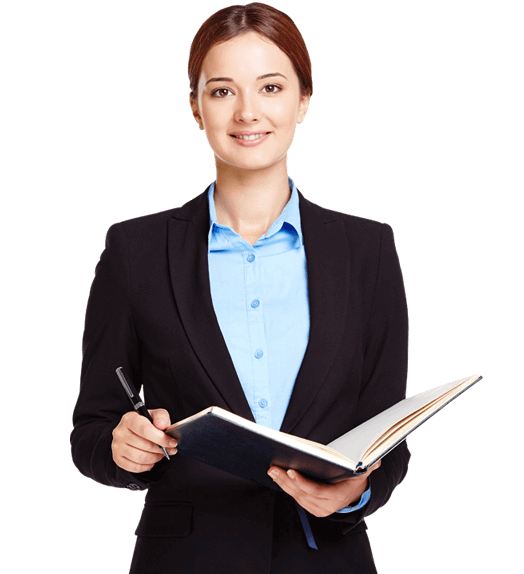
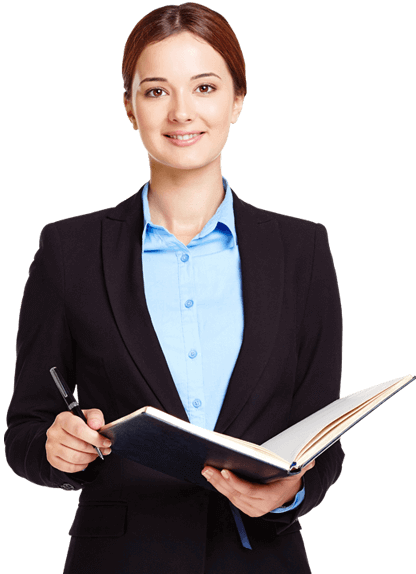
commit 6

diff --git a/src/Components/About.tsx b/src/Components/About.tsx
@@ -4,17 +4,21 @@ const About = () =>{
     return(
         <div>
             <Navbar/>
-            <div className='bg-purple-950 shadow-black h-100 sm:h-100 shadow-md md:h-120 lg:h-135 xl:h-105 relative'>
-                <img src='./src/assets/student.png' className="absolute h-[350px] sm:h-[400px] md:h-[430px] lg:h-[540px] xl:h-[400px] right-0 md:right-7 lg:right-10 bottom-0 rounded-md"></img>
-                <p className='text-white text-[14px] sm:text-[20px] md:text-xl lg:text-2xl xl:text-3xl italic font-bold font-opensans top-15 md:top-12 xl:top-15 left-3 sm:left-10 md:left-15 xl:left-40 absolute'>AscendEd - Where we make goals a reality.</p>
-                <p className='text-white text-[14px] sm:text-base md:text-[19px] xl:text-2xl italic font-normal font-opensans top-25 xl:top-28 left-5 sm:left-11 md:left-16 xl:left-40 w-55 sm:w-73 md:w-80 lg:w-90 xl:w-170 absolute'>At our core, we believe that every ambition—big or small—deserves the right support to come to life. We're a team of thinkers, builders, and doers dedicated to turning vision into progress through creativity, strategy, and action. Whether you're starting from scratch or scaling up, we're here to help you move with clarity, confidence, and purpose. Because to us, success isn't just a destination—it's a journey we take together.</p>               
+            <div className='bg-purple-950 shadow-black h-90 sm:h-100 shadow-md md:h-120 lg:h-135 xl:h-105 relative'>
+                <img src='./src/assets/student.png' className="absolute h-[calc(25vw+25vh)] max-h-[23rem] sm:h-[calc(28vw+28vh)] sm:min-h-[20rem] sm:max-h-[25rem] md:h-[calc(35vw+35vh)] md:max-h-[29rem] lg:h-[540px] xl:h-[400px] right-0 md:right-7 lg:right-10 bottom-0 rounded-md"></img>
+                <p className='text-white text-sm w-[calc(20vw+20vh)] sm:w-[calc(40vw+40vh)] sm:text-xl md:text-xl lg:text-2xl xl:text-3xl italic font-bold font-opensans top-8 sm:top-20 md:top-12 lg:top-25 xl:top-15 left-3 sm:left-10 md:left-15 xl:left-40 absolute'>AscendEd - Where we make goals a reality.</p>
+                <p className='text-white text-[14px] sm:text-base md:text-[19px] xl:text-2xl italic font-normal font-opensans top-20 sm:top-30 lg:top-39 xl:top-28 left-5 sm:left-11 md:left-16 xl:left-40 w-[calc(12vw+12vh)] sm:w-73 md:w-80 lg:w-90 xl:w-170 absolute'>Every ambition deserves the right support. We’re a team of creatives and strategists turning vision into progress. From first steps to scaling up, we move with purpose—together.</p>               
             </div>
             <div className="bg-purple-900 w-full h-100 lg:h-120 shadow-black shadow-2xl relative">
-                <img src="./src/assets/instruct.png" className="h-75 md:h-90 lg:h-100 xl:h-110 absolute top-10 sm:left-10 lg:left-20 xl:left-40"/>
-                <p className="absolute font-opensans italic text-base md:text-xl lg:text-2xl xl:text-3xl w-50 md:w-60 lg:w-80 xl:w-120 right-5 sm:right-15 lg:right-25 xl:right-40 top-20">Our <b>instructors</b> are more than just teachers — they're mentors dedicated to helping students succeed. With real-world experience and a passion for education, they bring clarity, support, and motivation to every step of the learning journey.</p>
+                <img src="./src/assets/instruct.png" className="h-75 md:h-90 lg:h-100 xl:h-110 absolute bottom-0 left-0 sm:left-10 lg:left-20 xl:left-40"/>
+                <p className="absolute font-opensans italic text-base md:text-xl lg:text-2xl xl:text-3xl w-[calc(15vw+15vh)] md:w-60 lg:w-80 xl:w-120 right-5 sm:right-15 lg:right-25 xl:right-40 top-10 lg:top-15 xl:top-20">Our <b>instructors</b> are more than just teachers — they're mentors dedicated to helping students succeed. With real-world experience and a passion for education, they bring clarity, support, and motivation to every step of the learning journey.</p>
             </div>
-            <div className="bg-purple-950 w-full h-120">
-
+            <div className="bg-purple-950 w-full h-120 text-center">
+                <div>
+                    <img src="./src/assets/plan.png" className="w-[calc(15vw+15vh)] mx-auto pt-10"></img>
+                    <p className="font-bold text-md pt-10">Easy and Affordable Plans</p>
+                    <p className="text-md p-5">Whether you’re just starting out or growing fast, our plans keep things affordable.</p>
+                </div>
             </div>
         </div>
     )

diff --git a/src/Components/Home.tsx b/src/Components/Home.tsx
@@ -5,19 +5,22 @@ const Home = ()=>{
     return (
         <div className='h-screen w-full'>
             <Navbar/>
-            <div className='bg-blue-700 h-80 xl:h-120 relative'>
-                <img src='./src/assets/Home.png' className="absolute sm:w-[300px] md:w-[350px] lg:w-[400px] xl:w-[500px] h-[180px] sm:h-[200px] md:h-[240px] xl:h-[350px] right-1 md:right-7 lg:right-20 top-13 md:top-10 object-cover rounded-md"></img>
-                <p className='text-white text-[14px] sm:text-base md:text-xl xl:text-3xl italic font-bold font-opensans top-15 md:top-12 xl:top-20 left-3 sm:left-10 md:left-15 xl:left-40 absolute'>Courses that help you grow</p>
-                <p className='text-white text-[14px] sm:text-base md:text-[19px] xl:text-2xl italic font-normal font-opensans top-25 xl:top-32 left-5 sm:left-11 md:left-16 xl:left-40 w-45 md:w-60 xl:w-100 absolute'>Unlock your potential -<br/>learn anytime, anywhere.<br/>Expert-led online courses designed to elevate your skills and your future.</p>               
+            <div className='bg-blue-700 text-center p-[calc(2vh+2vw)] lg:px-[calc(5vw+5vh)] lg pb-0 sm:flex sm:text-left'>
+                <div className='sm:w-[50vw] my-auto space-y-[2.5vh]'>
+                    <p className='text-white italic font-bold font-opensans sm:text-lg md:text-xl lg:text-2xl xl:text-3xl'>Courses that help you grow</p>
+                    <p className='text-white text-[14px] italic font-opensans sm:text-md md:text-lg lg:text-xl xl:text-2xl'>Unlock your potential -<br/>learn anytime, anywhere.<br/>Expert-led online courses designed to elevate your skills and your future.</p>               
+                </div>
+                <div className='w-full flex justify-end'>
+                    <img src='./src/assets/st-home.png' className="mx-auto sm:mx-0 sm:ml-auto h-auto w-[calc(20vw+30vh)] sm:w-[calc(20vw+15vh)] md:w-[calc(25vw+15vh)] lg:w-[calc(15vw+18vh)] pt-[4vh] object-cover overflow-scroll"></img>
+                </div>
             </div>
-            <p className='p-5 text-base xl:pl-8 sm:text-xl md:text-2xl lg:text-2xl xl:text-2xl font-opensans'>Future-Proof your skills with the perfect courses</p>
-            <div className='flex p-4 space-x-8 lg:space-x-15 xl:space-x-20 justify-center overflow-x-auto'>
+            <p className='p-5 pb-10 text-center sm:text-left text-base xl:pl-8 sm:text-xl md:text-2xl lg:text-2xl xl:text-2xl font-opensans'>Future-Proof your skills with the perfect courses</p>
+            <div className='md:flex p-4 space-y-[5vh] sm:space-x-8 lg:space-x-15 xl:space-x-20 justify-center overflow-x-auto'>
                 <Course_card imgSrc='./src/assets/AI.png' name='Artificial Intelligence' description='The best AI course for beginners.' rating={4.9}/>
                 <Course_card imgSrc='./src/assets/Py.png' name='Programming in Python' description='Learn Python from scratch.' rating={5}/>
-                <Course_card className='hidden sm:block' imgSrc='./src/assets/CY.jpg' name='Cybersecurity' description='Cyber-security made easy' rating={4.6}/>
-                <Course_card className='hidden lg:block' imgSrc='./src/assets/DS.png' name='Data Science' description='The perfect Data-Science Guide' rating={4.2}/>
+                <Course_card className='md:hidden lg:block'imgSrc='./src/assets/CY.jpg' name='Cybersecurity' description='Cyber-security made easy' rating={4.6}/>
             </div>
-            <p className='p-5 text-base xl:pl-8 sm:text-xl md:text-2xl lg:text-2xl xl:text-2xl font-opensans'>Don't take our word for it. See for yourself</p>
+            <p className='p-5 text-center sm:text-left text-base xl:pl-8 sm:text-xl md:text-2xl lg:text-2xl xl:text-2xl font-opensans'>Don't take our word for it. See for yourself</p>
             <div className='md:flex sm:justify-center place-items-center pt-4 pl-8'>
                 <Testimonial className='mt-10 md:mt-auto' imgSrc='./src/assets/customer.jpg' name='Arthur Morgan' description='The best AI course that I have taken.' rating={5}/>
                 <Testimonial className='mt-30 md:mt-auto' imgSrc='./src/assets/customer.jpg' name='Joel Miller' description='Truly the best experience.' rating={5}/>

diff --git a/src/Components/Navbar.tsx b/src/Components/Navbar.tsx
@@ -1,15 +1,19 @@
 import { Link } from "react-router-dom"
+import { Sidebar } from "./sidebar"
 
 const Navbar = () => {
     return(
-        <div className=" bg-black sm:h-5 md:h-10 lg:h-15 min-h-10 overflow-auto">
+        <div className=" bg-black sm:h-5 md:h-10 lg:h-15 pb-[1vh] sm:min-h-10 overflow-auto">
             <nav className="flex space-x-6 sm:pt-0.5 md:pt-1 lg:pt-1">
                 <Link to="/"><p className="logo pl-2">AscendED</p></Link>
-                <p className="text-white whitespace-nowrap lg:text-xl md:text-base sm:text-sm text-[12px] font-opensans pt-2 sm:pt-1.3 md:pt-1 lg:pt-3 lg:pl-64 md:pl-40 sm:pl-20 sm:pr-1 md:pr-7 lg:pr-10 italic">Boost your career</p>
-                <div className="justify-end flex ml-auto space-x-8 pr-2 sm:pl-5">
+                <p className="italic font-opensans pt-[1.5vh] mx-auto text-[0.8rem] sm:text-sm md:text-md lg:text-lg xl:text-xl sm:p-0 sm:m-auto">Boost your career</p>
+                <div className="hidden sm:flex justify-end ml-auto space-x-8 pr-2 sm:pl-5">
                     <Link to="/"><p className="navbarText">Explore Courses</p></Link>
                     <Link to="/about"><p className="navbarText">About AscendEd</p></Link>
                     <Link to="/"><p className="navbarText">Sign in</p></Link>
+                </div>
+                <div className="sm:hidden justify-end ml-auto pr-3">
+                    <Sidebar/>
                 </div>
             </nav>
         </div> 

diff --git a/src/Components/sidebar.tsx b/src/Components/sidebar.tsx
@@ -1,0 +1,22 @@
+import { useSidebarStore } from "./states/usesidebar"
+import { Link } from "react-router-dom";
+
+const Sidebar = () => {
+    const isOpen = useSidebarStore((state) => state.isOpen);
+    const toggle = useSidebarStore((state) => state.toggleSidebar);
+
+    return isOpen ? (
+        <div className="ml-auto justify-end text-end pb-3">
+            <button onClick={toggle}><p className="logo">☰</p></button>
+            <Link to="/"><p className="navbarText">Explore Courses</p></Link>
+            <Link to="/about"><p className="navbarText">About AscendEd</p></Link>
+            <Link to="/"><p className="navbarText">Sign in</p></Link>
+        </div>
+    ) : (
+        <div>
+            <button onClick={toggle}><p className="logo">☰</p></button>
+        </div>
+    );
+}
+
+export {Sidebar}

diff --git a/src/Components/CourseCard.tsx b/src/Components/CourseCard.tsx
@@ -11,7 +11,7 @@ interface courseinfo{
 
 const Course_card = ({imgSrc, name, description, rating, className="", link="/"}: courseinfo) =>{
     return (
-        <div className={`rounded-sm md:rounded-md lg:rounded-lg xl:rounded-xl p-3 xl:p-6 w-50 md:w-70 lg:w-80 xl:w-90 xl:h-100 bg-blue-900 ${className}`}>
+        <div className={`rounded-lg mx-auto md:rounded-md lg:rounded-lg xl:rounded-xl p-3 xl:p-6 w-50 md:w-70 md:h-90 lg:w-80 xl:w-90 xl:h-100 bg-blue-900 ${className}`}>
             <Link to={link}>
                 <img src={imgSrc} className=" w-full h-40 sm:h-48 md:h-50 xl:h-55 rounded-xl shadow-md shadow-black"></img>
                 <p className="font-bold pt-4">{name}</p>

diff --git a/src/Components/states/usesidebar.tsx b/src/Components/states/usesidebar.tsx
@@ -1,0 +1,16 @@
+import { create } from "zustand";
+type SidebarStore = {
+    isOpen : boolean,
+    toggleSidebar : () => void
+};
+
+const useSidebarStore = create<SidebarStore>((set) =>({
+    isOpen : false,
+    toggleSidebar : () => {
+        set((state) => ({
+            isOpen : !state.isOpen
+        }));
+    }
+}));
+
+export {useSidebarStore}
